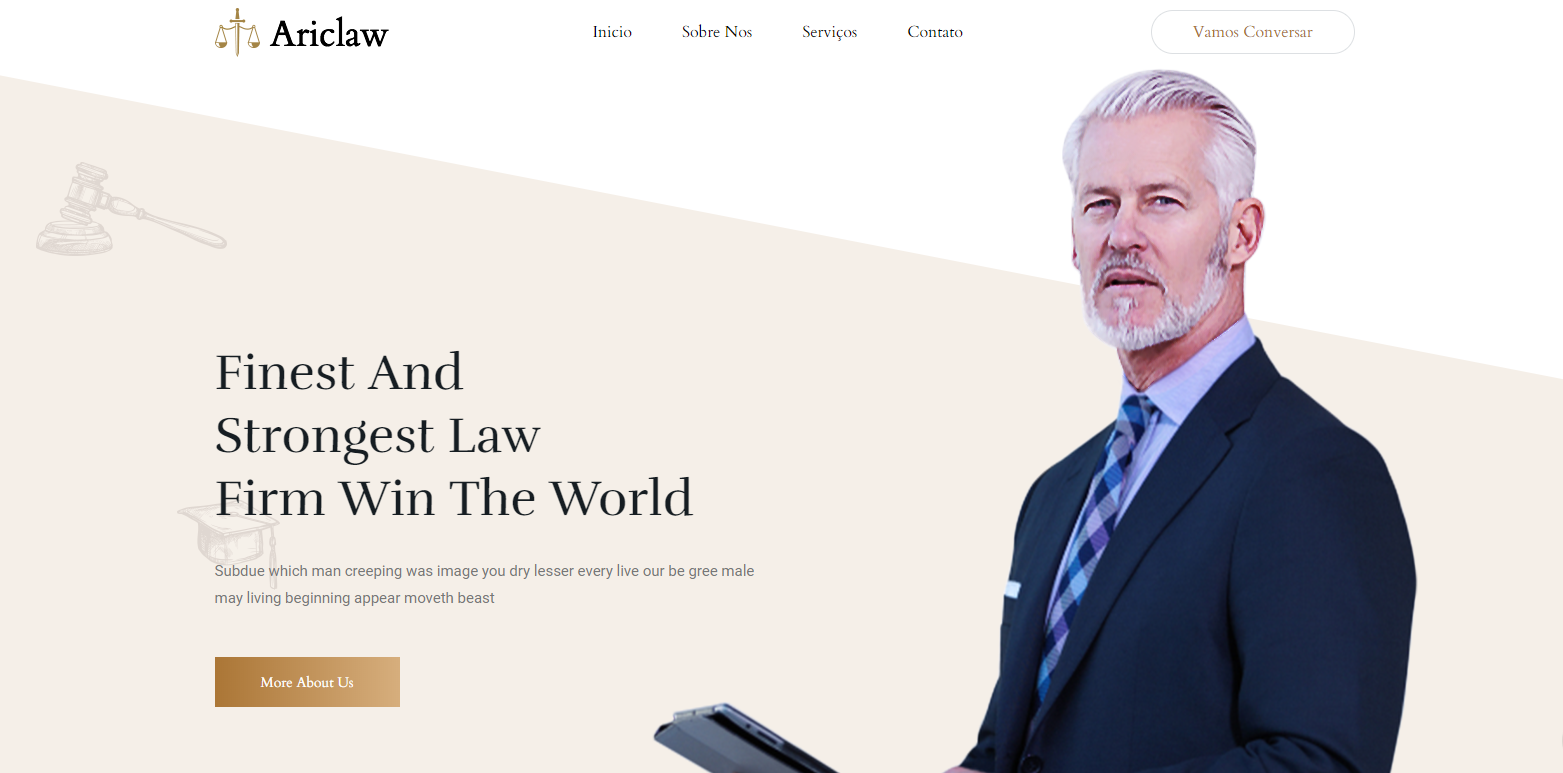
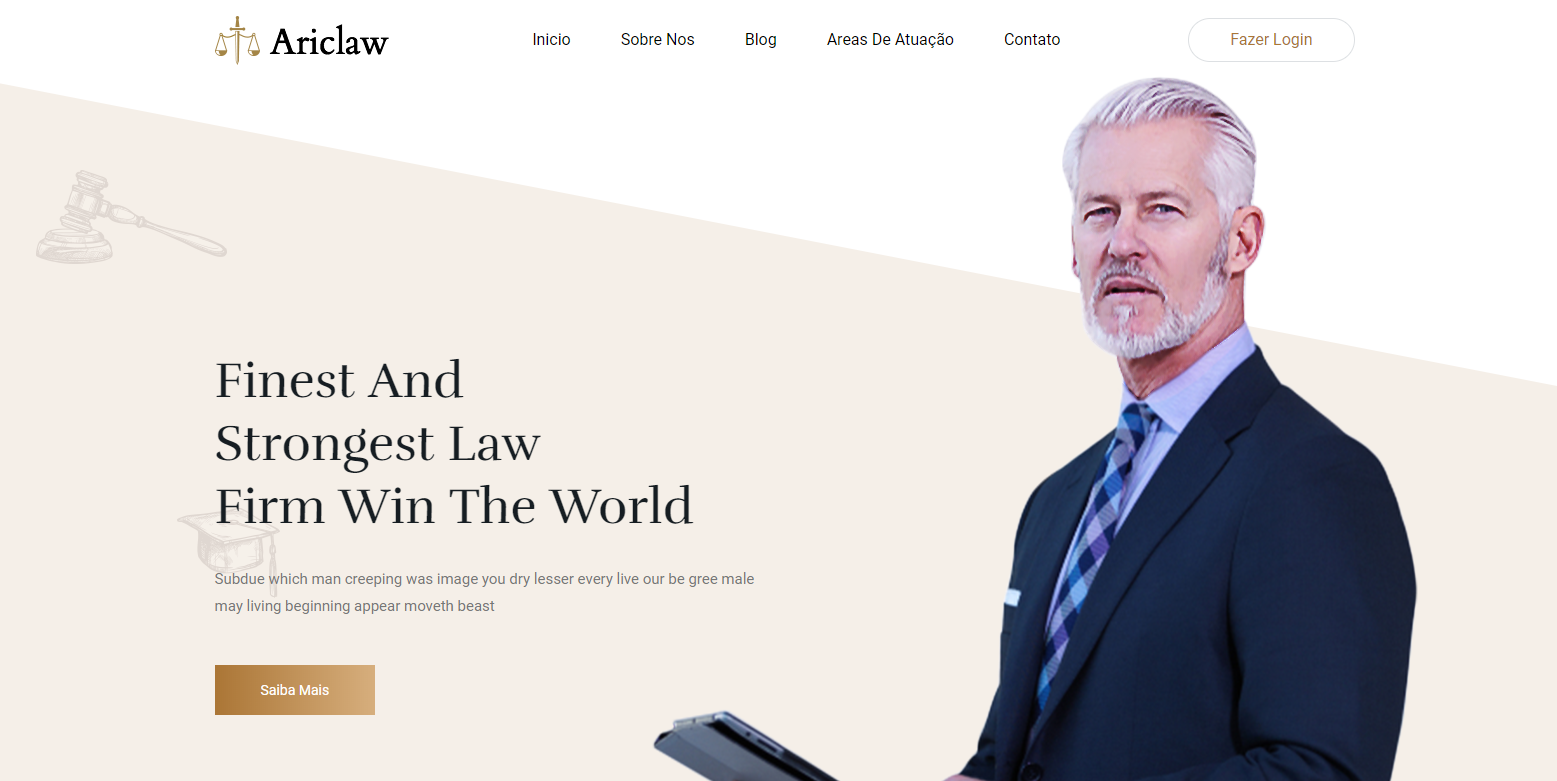
alteração de arquivo footer.php, header.php, index.php

diff --git a/index.php b/index.php
@@ -12,7 +12,7 @@
                             <p>Subdue which man creeping was image you dry lesser every live our be gree male
                                 may living beginning appear moveth beast </p>
                             <div class="banner_btn">
-                                <a href="#" class="btn_1">More About Us</a>
+                                <a href="#" class="btn_1">Saiba Mais</a>
                             </div>
                         </div>
                     </div>
@@ -35,7 +35,7 @@
                         <div class="single_service_text">
                             <span class="flaticon-law"></span>
                             <h2>Assessoria Civil</h2>
-                            <p>Over their the abund every placed thing them them winged you beginning forth</p>
+                            <p> Elaboração e revisão de contratos civil, Renegociação de contratos, Assessoria para a constituição Alteração e dissolução de sociedades empresárias e não empresárias Fundações Associações Cooperativas</p>
                         </div>
                     </div>
                 </div>
@@ -44,7 +44,7 @@
                         <div class="single_service_text">
                             <span class="flaticon-scale"></span>
                             <h2>Assessoria Trabalhista</h2>
-                            <p>Over their the abund every placed thing them them winged you beginning forth</p>
+                            <p>Nosso escritório atua, perante a Justiça do Trabalho de 1ª instância, na defesa trabalhista de seus clientes, bem como perante os diversos Tribunais Regionais do Trabalho, com a elaboração de recursos trabalhistas.</p>
                         </div>
                     </div>
                 </div>
@@ -53,7 +53,7 @@
                         <div class="single_service_text">
                             <span class="flaticon-siren"></span>
                             <h2>Assessoria tributaria</h2>
-                            <p>Over their the abund every placed thing them them winged you beginning forth</p>
+                            <p>Mediante consultoria e planejamento tributários, são repassadas orientações de procedimentos e operações que otimizem a utilização dos instrumentos legais disponíveis, de forma a minimizar os impactos da carga fiscal referente aos tributos federais, estaduais e municipais.</p>
                         </div>
                     </div>
                 </div>
@@ -62,7 +62,7 @@
                         <div class="single_service_text">
                             <span class="flaticon-policeman"></span>
                             <h2>Assessoria de Conciliação e arbitragem</h2>
-                            <p>Over their the abund every placed thing them them winged you beginning forth</p>
+                            <p> Instituto de Conciliação, Mediação e Arbitragem é uma instituição privada, tendo iniciado suas atividades em 2013, busca a prevenção, avaliação, administração e resolução de conflitos, bem como a pacificação</p>
                         </div>
                     </div>
                 </div>
@@ -71,7 +71,7 @@
                     <div class="single_service_part">
                         <div class="single_service_text">
                             <span class="flaticon-policeman"></span>
-                            <h2>Assessoria de Conciliação e arbitragem</h2>
+                            <h2>Assessoria previdenciaria</h2>
                             <p>Over their the abund every placed thing them them winged you beginning forth</p>
                         </div>
                     </div>
@@ -80,7 +80,7 @@
                     <div class="single_service_part">
                         <div class="single_service_text">
                             <span class="flaticon-policeman"></span>
-                            <h2>Assessoria de Conciliação e arbitragem</h2>
+                            <h2>Assessoria eleitoral</h2>
                             <p>Over their the abund every placed thing them them winged you beginning forth</p>
                         </div>
                     </div>
@@ -89,7 +89,7 @@
                     <div class="single_service_part">
                         <div class="single_service_text">
                             <span class="flaticon-policeman"></span>
-                            <h2>Assessoria de Conciliação e arbitragem</h2>
+                            <h2>Assessoria Penal</h2>
                             <p>Over their the abund every placed thing them them winged you beginning forth</p>
                         </div>
                     </div>
@@ -99,7 +99,7 @@
                     <div class="single_service_part">
                         <div class="single_service_text">
                             <span class="flaticon-policeman"></span>
-                            <h2>Assessoria de Conciliação e arbitragem</h2>
+                            <h2>Assessoria Constitucional</h2>
                             <p>Over their the abund every placed thing them them winged you beginning forth</p>
                         </div>
                     </div>

diff --git a/footer.php b/footer.php
@@ -34,42 +34,12 @@
                         <p>Q. 104 Norte Rua NE 5, 38 - Plano Diretor Norte, Palmas, TO</p>
                         <ul>
                             <li><a href="#"><i class="ti-mobile"></i>(63) 3215-5293</a></li>
-                            <li><a href="mailto:ariclaw@law.com"><i class="ti-email"></i>ariclaw@law.com</a></li>
-                            <li><a href="#"><i class="ti-world"></i> ariclawyerfirm.com</a></li>
+                            <li><a href="mailto:ariclaw@law.com"><i class="ti-email"></i>seuemail.com.br</a></li>
+                            <li><a href="#"><i class="ti-world"></i> seusite.com.br</a></li>
                         </ul>
                     </div>
                 </div>
-                <div class="col-sm-6 col-xl-3">
-                    <div class="single-footer-widget footer_3">
-                        <h4>Instagram</h4>
-                        <div class="footer_img">
-                            <div class="single_footer_img">
-                                <img src="<?php bloginfo('template_url')?>/img/footer_img/footer_img_1.png" alt="">
-                                <a href="#"><i class="ti-instagram"></i></a>
-                            </div>
-                            <div class="single_footer_img">
-                                <img src="<?php bloginfo('template_url')?>/img/footer_img/footer_img_2.png" alt="">
-                                <a href="#"><i class="ti-instagram"></i></a>
-                            </div>
-                            <div class="single_footer_img">
-                                <img src="<?php bloginfo('template_url')?>/footer_img/footer_img_3.png" alt="">
-                                <a href="#"><i class="ti-instagram"></i></a>
-                            </div>
-                            <div class="single_footer_img">
-                                <img src="<?php bloginfo('template_url')?>/img/footer_img/footer_img_4.png" alt="">
-                                <a href="#"><i class="ti-instagram"></i></a>
-                            </div>
-                            <div class="single_footer_img">
-                                <img src="<?php bloginfo('template_url')?>/img/footer_img/footer_img_5.png" alt="">
-                                <a href="#"><i class="ti-instagram"></i></a>
-                            </div>
-                            <div class="single_footer_img">
-                                <img src="<?php bloginfo('template_url')?>/img/footer_img/footer_img_6.png" alt="">
-                                <a href="#"><i class="ti-instagram"></i></a>
-                            </div>
-                        </div>
-                    </div>
-                </div>
+                
             </div>
 
         </div>

diff --git a/header.php b/header.php
@@ -62,7 +62,7 @@
                                 </li>
                             </ul>
                         </div>
-                        <a href="#" class="d-none d-sm-block menu_btn">Vamos Conversar</a>
+                        <a href="#" class="d-none d-sm-block menu_btn">Fazer Login</a>
                     </nav>
                 </div>
             </div>
